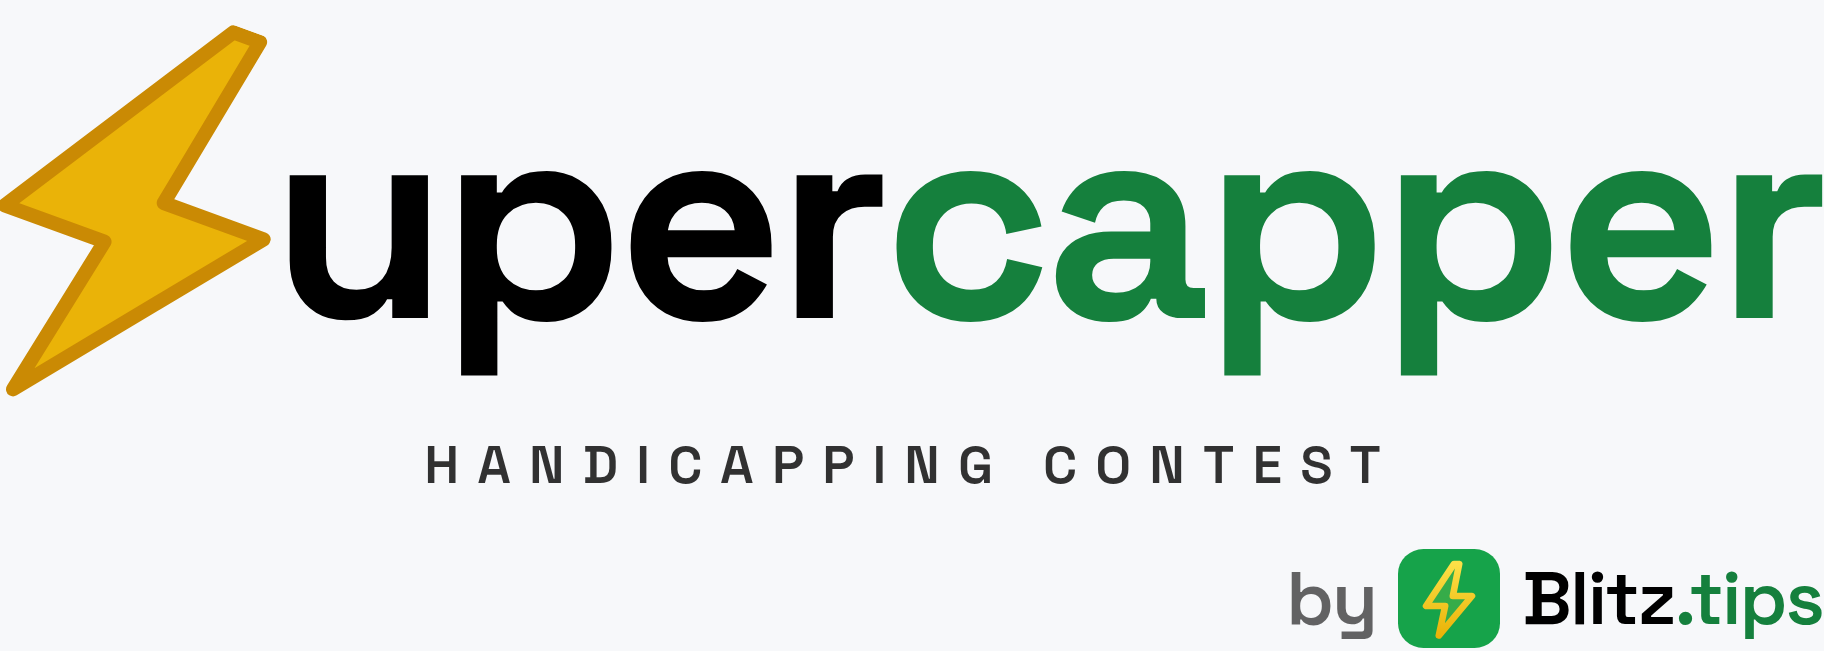
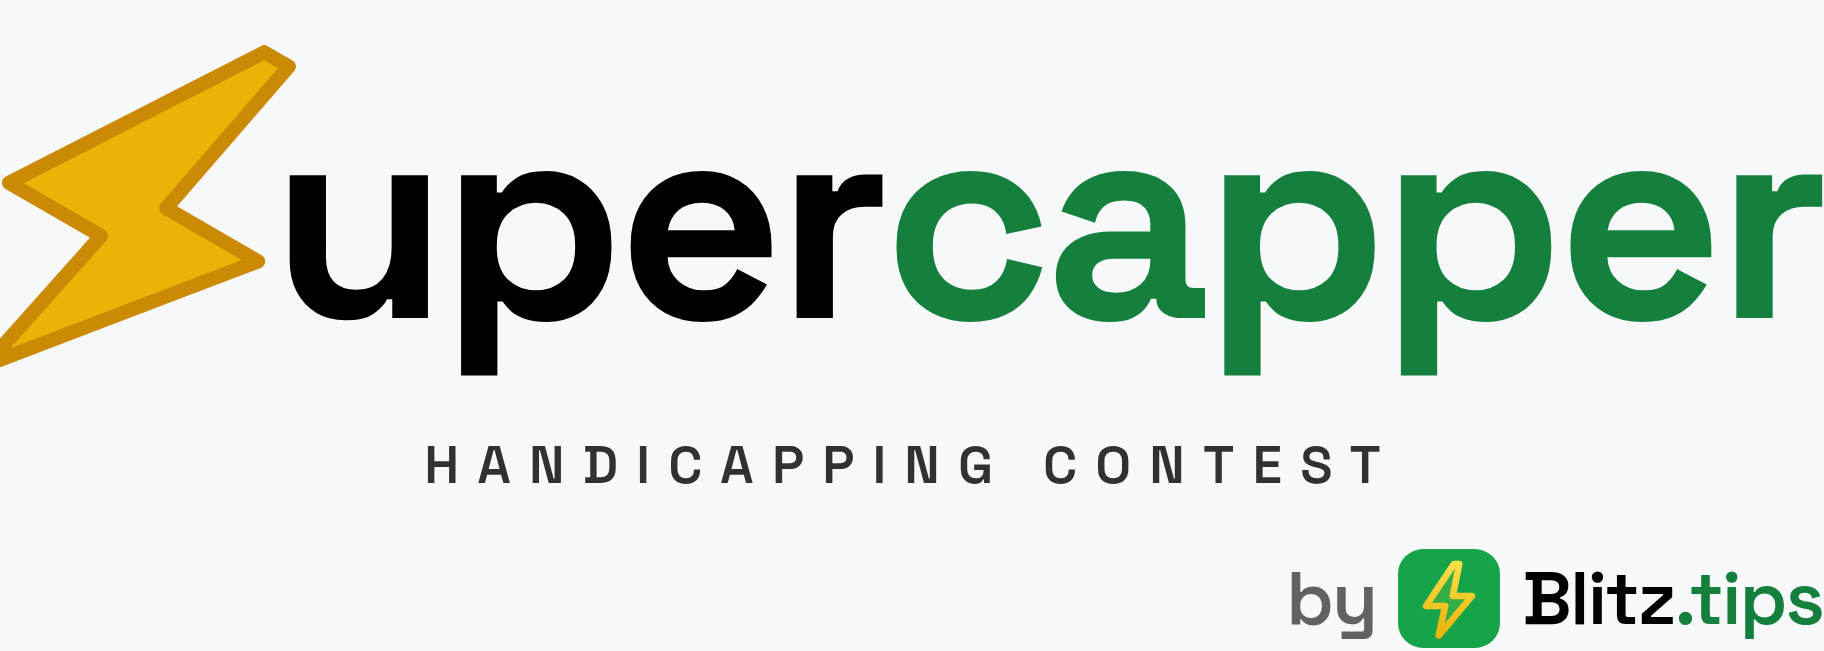
Tilt the bolt to 30°
Claude-Session: https://claude.ai/code/session_016YpNsra3VmRDhQw8QQMKUK

Changed region(s): [[0.0312, 0.0307, 0.1875, 0.4608], [0.0, 0.2458, 0.0938, 0.6144]]

diff --git a/src/components/contest/supercapper-logo.tsx b/src/components/contest/supercapper-logo.tsx
@@ -41,7 +41,7 @@ export function SupercapperLogo({
       >
         <span className="inline-flex items-center font-display font-extrabold tracking-tight">
           {/* viewBox is cropped tight to the bolt's bounds (no transparent
-              padding) so it can sit against the "u". Tilted 20° so it reads as
+              padding) so it can sit against the "u". Tilted 30° so it reads as
               a strike rather than a static glyph; that tilt widens its
               footprint enough that it needs no negative margin at all. Solid
               gold with a deeper gold edge, so it holds its silhouette against
@@ -49,7 +49,7 @@ export function SupercapperLogo({
               surrounding text color. */}
           <svg
             viewBox="10.5 5.5 19 30.5"
-            className="h-[1.5em] w-[0.94em] rotate-[20deg]"
+            className="h-[1.5em] w-[0.94em] rotate-[30deg]"
             fill="none"
             aria-hidden
           >
